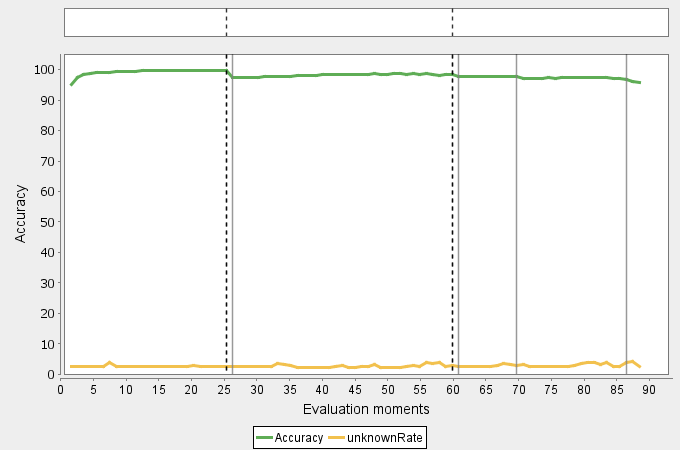
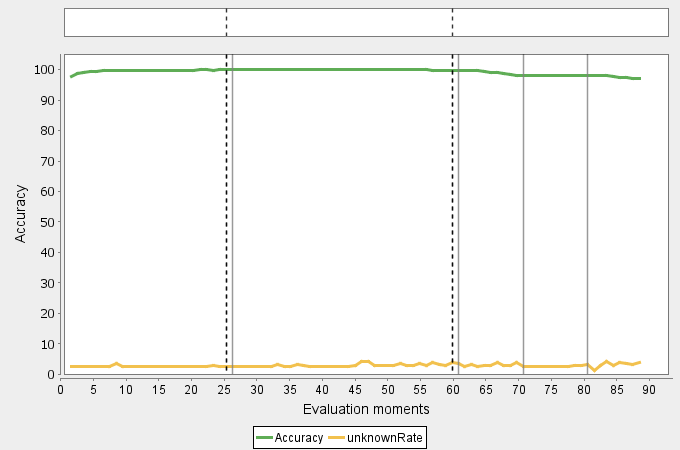
Gráficos Momentos de Avaliação Alteração Arquivo MCI MOA // RBF (Latência Extrema)

Changed region(s): [[0.3088, 0.1244, 0.9574, 0.84], [0.0926, 0.1556, 0.1853, 0.1867], [0.1544, 0.7778, 0.1853, 0.84]]

diff --git a/src/main/java/EIFuzzCND/ConfusionMatrix/ConfusionMatrix.java b/src/main/java/EIFuzzCND/ConfusionMatrix/ConfusionMatrix.java
@@ -1,9 +1,6 @@
 package EIFuzzCND.ConfusionMatrix;
 
-import java.io.BufferedWriter;
-import java.io.File;
-import java.io.FileWriter;
-import java.io.IOException;
+import java.io.*;
 import java.util.*;
 
 
@@ -56,19 +53,57 @@ public class ConfusionMatrix {
         }
     }
 
-    public void saveMatrix(String dataset,int latencia, double percentLabeled) throws IOException {
+
+    public void saveMatrix(String dataset, int latencia, double percentLabeled) throws IOException {
+        String current = (new File(".")).getCanonicalPath();
+        String filePath = current + "/datasets/" + dataset + "/graphics_data/" + dataset + latencia + "-" + percentLabeled + "-matrix.csv";
+
+        File file = new File(filePath);
+
         FileWriter writer;
         BufferedWriter buf_writer;
-        String current = (new File(".")).getCanonicalPath();
-        writer = new FileWriter(current + "/datasets" + "/" + dataset + "/graphics_data/" + dataset  + latencia + "-" + percentLabeled + "-matrix.csv");
-        buf_writer = new BufferedWriter(writer);
 
-        buf_writer.write("Classes,");
-        for (Double className : matrix.keySet()) {
-            buf_writer.write(className + ",");
+        // Verifica se o arquivo já existe
+        if (file.exists()) {
+            // Se o arquivo já existe, abre-o para leitura
+            BufferedReader reader = new BufferedReader(new FileReader(file));
+
+            // Lê o conteúdo existente
+            StringBuilder content = new StringBuilder();
+            String line;
+            while ((line = reader.readLine()) != null) {
+                content.append(line).append("\n");
+            }
+            reader.close();
+
+            // Abre o arquivo em modo de escrita, mas mantendo o conteúdo existente
+            writer = new FileWriter(file, true);
+            buf_writer = new BufferedWriter(writer);
+            buf_writer.newLine();
+            // Escreve o cabeçalho do arquivo
+            buf_writer.write("Classes,");
+            for (Double className : matrix.keySet()) {
+                buf_writer.write(className + ",");
+            }
+            // Escreve abaixo do conteúdo existente
+            if (content.length() > 0) {
+                buf_writer.newLine();
+            }
+
+        } else {
+            // Se o arquivo não existe, cria um novo arquivo
+            writer = new FileWriter(file);
+            buf_writer = new BufferedWriter(writer);
+
+            // Escreve o cabeçalho do arquivo
+            buf_writer.write("Classes,");
+            for (Double className : matrix.keySet()) {
+                buf_writer.write(className + ",");
+            }
+            buf_writer.newLine();
         }
-        buf_writer.newLine();
 
+        // Escreve os dados na matriz
         for (Double trueClass : matrix.keySet()) {
             buf_writer.write(trueClass + ",");
             for (Double predictedClass : matrix.keySet()) {
@@ -78,8 +113,12 @@ public class ConfusionMatrix {
             buf_writer.newLine();
         }
 
+        // Fecha o escritor do arquivo
         buf_writer.close();
     }
+
+
+
 
 
 

diff --git a/src/main/java/EIFuzzCND/Phases/OnlinePhase.java b/src/main/java/EIFuzzCND/Phases/OnlinePhase.java
@@ -79,22 +79,25 @@ public class OnlinePhase {
             //intermediaria
             esperandoTempo = data;
             List<Example> labeledMem = new ArrayList<>();
-
+            Set<Double> trueLabels = new HashSet<>();
 
 
             for(int tempo = 0, tempoLatencia = 0; tempo <data.size(); tempo++, tempoLatencia++) {
                 Instance ins = data.get(tempo);
                 Example exemplo = new Example(ins.toDoubleArray(), true, tempo);
-
                 double rotulo = this.supervisedModel.classifyNew(ins, tempo);
-
-
                 exemplo.setRotuloClassificado(rotulo);
-                if (rotulo == -1) {
 
+                // Verifica se o rótulo verdadeiro é novo
+                if (!trueLabels.contains(exemplo.getRotuloVerdadeiro()) || confusionMatrixOriginal.getNumberOfClasses() != tamConfusion) {
+                    trueLabels.add(exemplo.getRotuloVerdadeiro());
+                    tamConfusion = confusionMatrixOriginal.getNumberOfClasses();
+                    confusionMatrixOriginal.saveMatrix(dataset,latencia,percentLabeled);
+                }
+
+                if (rotulo == -1) {
                     rotulo = notSupervisedModel.classify(exemplo, this.supervisedModel.K, tempo);
                     exemplo.setRotuloClassificado(rotulo);
-
                     if(rotulo == -1) {
                         unkMem.add(exemplo);
                         if (unkMem.size() >= T) {
@@ -119,15 +122,14 @@ public class OnlinePhase {
                     nExeTemp++;
                 }
 
-
                 supervisedModel.removeOldSPFMiCs(latencia + ts, tempo);
                 //notSupervisedModel.removeOldSPFMiCs(latencia+ts, tempo);
                 this.removeOldUnknown(unkMem, ts, tempo);
 
-
                 if ( tempo > 0 && tempo%divisor == 0) {
-                    metrics = confusionMatrix.calculateMetrics(tempo,confusionMatrix.countUnknow(),divisor);
                     confusionMatrix.mergeClasses(confusionMatrix.getClassesWithNonZeroCount());
+                    metrics = confusionMatrix.calculateMetrics(tempo,confusionMatrix.countUnknow(),divisor);
+                    System.out.println("Tempo:" + tempo + " Acurácia: " + metrics.getAccuracy() + " Precision: " + metrics.getPrecision() );
                     listaMetricas.add(metrics);
                     if (existNovelty) {
                         novelties.add(1.0);
@@ -138,7 +140,7 @@ public class OnlinePhase {
                 }
             }
 
-            confusionMatrixOriginal.saveMatrix(dataset,latencia,percentLabeled);
+            //confusionMatrixOriginal.saveMatrix(dataset,latencia,percentLabeled);
 
             tamConfusion = confusionMatrixOriginal.getNumberOfClasses();
             confusionMatrixOriginal.printMatrix();
@@ -150,6 +152,7 @@ public class OnlinePhase {
 
             HandlesFiles.salvaNovidades(novelties, dataset,latencia,percentLabeled);
             HandlesFiles.salvaResultados(results, dataset,latencia,percentLabeled);
+
         } catch (Exception e) {
             throw new RuntimeException(e);
         }

diff --git a/src/main/java/EIFuzzCND/FuzzySystem.java b/src/main/java/EIFuzzCND/FuzzySystem.java
@@ -13,23 +13,23 @@ import java.util.List;
 
 public class FuzzySystem {
     public static void main(String[] args) throws IOException, Exception {
-        String dataset = "kdd";
+        String dataset = "2-rbf";
         String caminho = (new File(".")).getCanonicalPath() + "/datasets/" + dataset + "/";
 
 
         double fuzzyfication = 2;
         double alpha = 2;
         double theta = 1;
-        int K = 8;
-        int kshort = 8; // número de clusters
-        int T = 80;
+        int K = 4;
+        int kshort = 4; // número de clusters
+        int T = 40;
         int minWeightOffline = 0;
-        int minWeightOnline = 30;
-        int []latencia = {10000000,2000, 5000, 10000};// 2000, 5000, 10000,10000000
-        int tChunk = 2000;
+        int minWeightOnline = 15;
+        int [] latencia = {10000000};// 2000, 5000, 10000,10000000
+        int tChunk = 500;
         int ts = 200;
 
-        double phi = 0.8;
+        double phi = 0.18;
         double[] percentLabeled = {1.0};
 
         ConverterUtils.DataSource source;
@@ -52,7 +52,7 @@ public class FuzzySystem {
                     SupervisedModel supervisedModel = offlinePhase.inicializar(data);
                     OnlinePhase onlinePhase = new OnlinePhase(caminho, supervisedModel, latencia[i], tChunk, T, kshort, phi, ts, minWeightOnline, labeled);
                     onlinePhase.initialize(dataset);
-                    if (onlinePhase.getTamConfusion() > 20) {
+                    if (onlinePhase.getTamConfusion() > 10) {
                         // Condição satisfeita, executar novamente para a mesma latência
                     } else {
                         // Condição não satisfeita, passa para a próxima latência

diff --git a/src/main/java/EIFuzzCND/Results.java b/src/main/java/EIFuzzCND/Results.java
@@ -18,8 +18,8 @@ public class Results {
 
     public static void main(String[] args) throws IOException, ParseException {
         String current = (new File(".")).getCanonicalPath();
-        String dataset = "kdd";
-        String[] latencia = {"2000","5000","10000","10000000"};//"2000","5000","10000","10000000"
+        String dataset = "rbf";
+        String[] latencia = {"10000000"};//"2000","5000","10000","10000000"
         String percentedLabeled = "1.0";
         Map<Integer, List<ResultsForExample>> resultsEIFuzzCND = new HashMap<>();
         ArrayList<Double> novidades;
@@ -60,7 +60,7 @@ public class Results {
             rotulos.add("Accuracy");
             rotulos.add("unknownRate");
 
-            metricasFuzzCND.add(acuraciasFuzzCND);
+            metricasFuzzCND.add(precisoesFuzzCND);
             metricasFuzzCND.add(unknownRate);
 
 

diff --git a/src/main/java/EIFuzzCND/Structs/SPFMiC.java b/src/main/java/EIFuzzCND/Structs/SPFMiC.java
@@ -163,7 +163,7 @@ public class SPFMiC implements Instance {
     //4 synedc
     //2 rbf e moa
     public double getRadiusWithWeight() {
-        return Math.sqrt((this.SSDe/this.N))  * 1.5 ;
+        return Math.sqrt((this.SSDe/this.N))  * 2 ;
     }
     public double getRadiusND() {
         return Math.sqrt((this.SSDe/this.N)) ;

diff --git a/src/main/java/EIFuzzCND/Models/SupervisedModel.java b/src/main/java/EIFuzzCND/Models/SupervisedModel.java
@@ -37,7 +37,6 @@ public class SupervisedModel {
     }
 
     public void trainInitialModel(Instances trainSet) throws Exception {
-
         List<Example> chunk = new ArrayList<>();
         for(int i=0; i<trainSet.size(); i++) {
             Example ex = new Example(trainSet.instance(i).toDoubleArray(), true);

diff --git a/src/main/java/EIFuzzCND/Output/HandlesFiles.java b/src/main/java/EIFuzzCND/Output/HandlesFiles.java
@@ -60,6 +60,7 @@ public class HandlesFiles {
 
 
 
+
     public static ArrayList<ResultsForExample> loadResults(String caminho, int numAnalises) {
         BufferedReader inReader = null;
         try {
